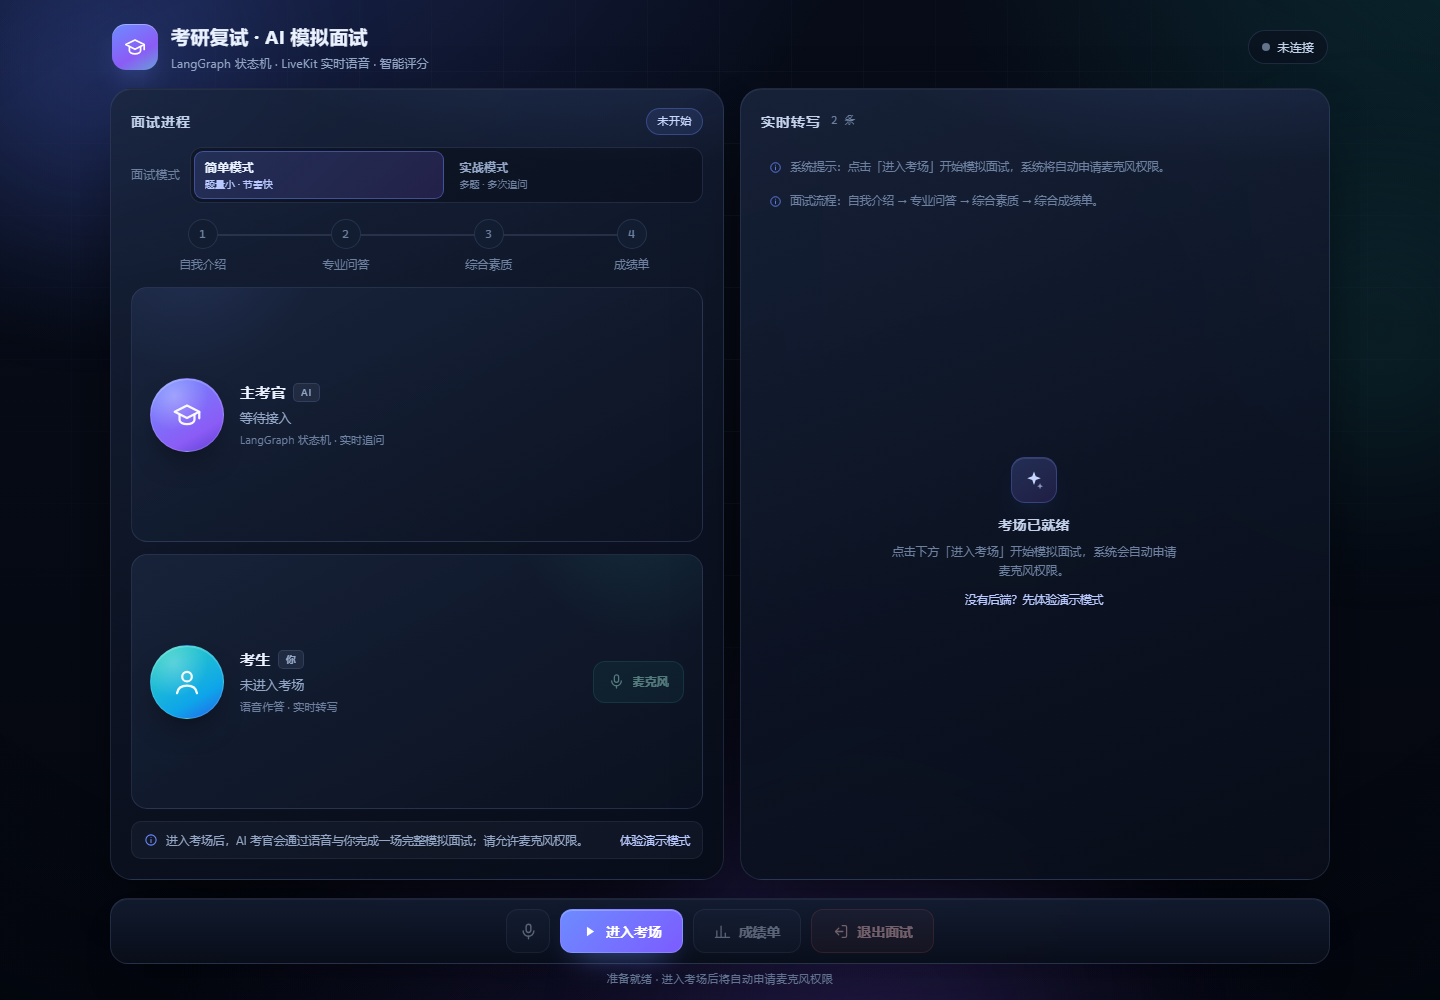
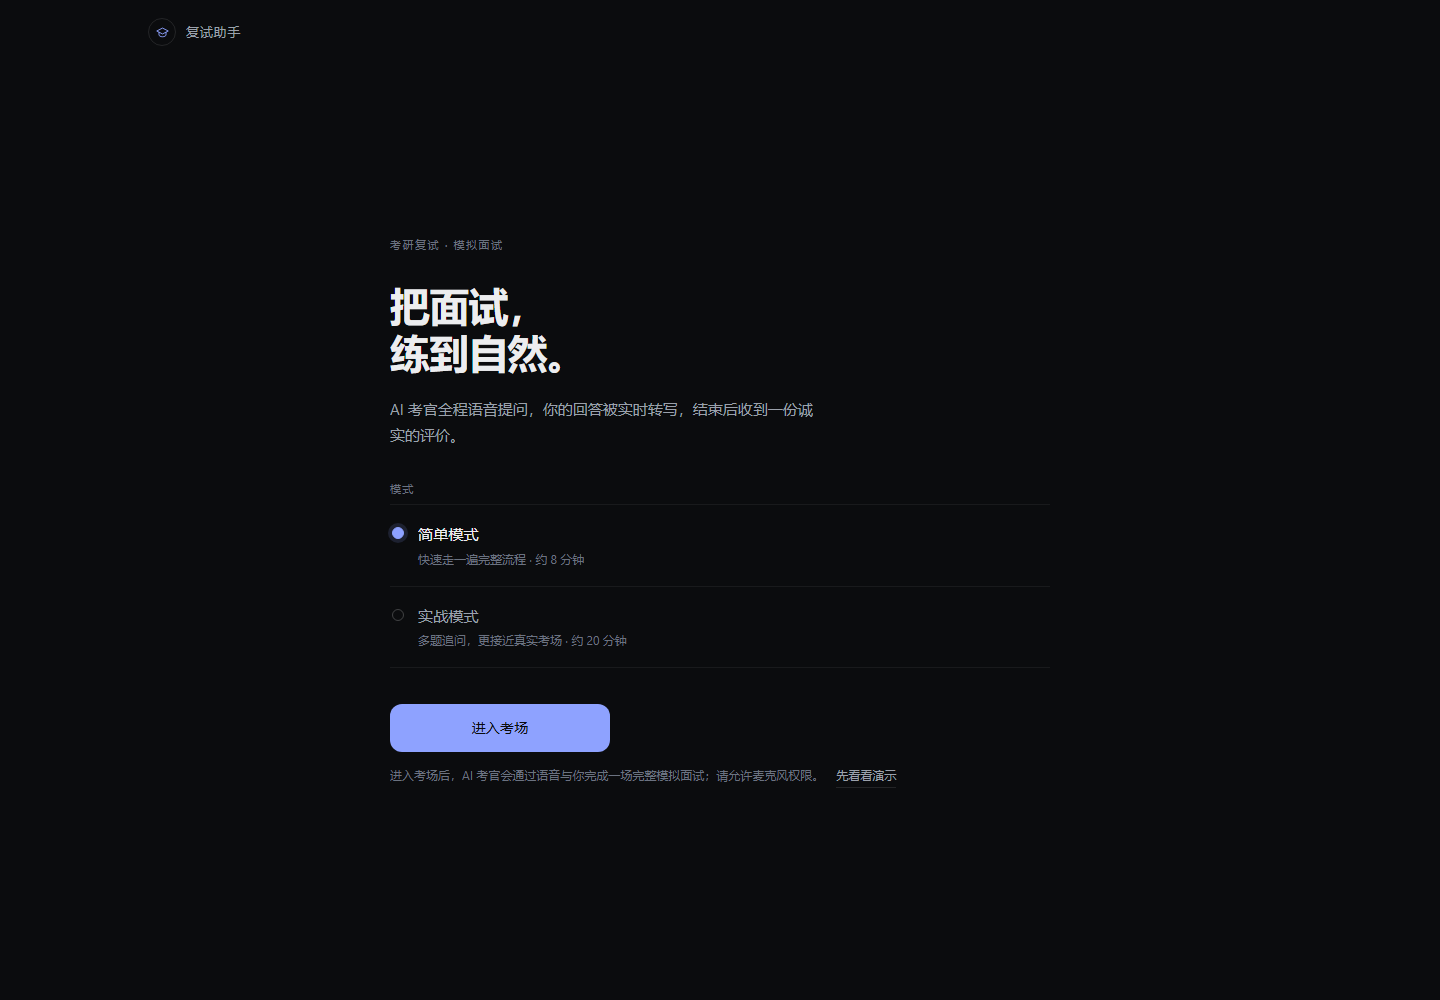
docs: refresh screenshots and notes for the refined interface
Replace the after-screenshots with the redesigned lobby, session, thinking, report, mobile and error states; update the optimization report visuals section.

diff --git a/docs/optimization-report.md b/docs/optimization-report.md
@@ -62,7 +62,7 @@
 
 原 512 行单文件拆为 `index.html` + `styles.css` + `app.js`（原生技术栈，无构建步骤）：
 
-- 视觉：深色沉浸式考场主题、渐变/光晕、阶段进度线、成绩单环形总分 + 三维条形动画；动效只用 `transform/opacity`。
+- 视觉（第二轮按"好看"需求重做）：克制的极简编辑排版——近黑石墨底、单一冷静强调色、发丝分割线、五级字号层级、面板与徽章大幅减少；大厅居中列、面试中"舞台 + 独立对话区"、成绩单大数字 + 细线维度；动效只保留发言呼吸（scale ≤1.02）、状态切换 200ms、成绩单一次性 reveal，并受 `prefers-reduced-motion` 关闭。
 - 安全：所有动态文本 `textContent`（原 `innerHTML` XSS 面消除，实测 XSS 载荷只显示为文本）；不引入第三方 CSS/字体框架。
 - 健壮性：音频 track `attach/detach` 统一清理、`pagehide` 断开、重连状态、自动播放被拦截横幅、内联错误卡片 + 重试、连接质量、麦克风静音、`aria-live`/`focus-visible`/`prefers-reduced-motion`。
 - 性能：LiveKit SDK 按需懒加载（原阻塞 CDN `<script>` 移除），SDK/CDN 不可用不白屏；DOM 引用缓存、滚动节流。
@@ -108,7 +108,7 @@ HTTP 冒烟（新一轮 `server.py`，端口 8080）：
 | `GET /%2e%2e%2fREADME.md` | 403（路径穿越被拒） |
 | `GET /nope.css` | 404 |
 
-界面证据（`docs/screenshots/`）：`after-quick-mode.png`（简单模式进行中）、`after-real-mode.png`（实战模式多题+追问）、`after-ai-thinking.png`（AI 思考中）、`after-report.png`（成绩单）、`after-mobile-390.png`（移动端）、`after-error-state.png`（未启动 LiveKit 时的内联错误+重试）。
+界面证据（`docs/screenshots/`）：`after-live-lobby.png`（大厅/模式选择）、`after-real-mode.png`（实战模式进行中）、`after-ai-thinking.png`（AI 思考中）、`after-report.png`（成绩单）、`after-mobile-390.png` / `after-mobile-report-390.png`（移动端）、`after-error-state.png`（未启动 LiveKit 时的错误态）。
 
 ---
 

diff --git a/README.md b/README.md
@@ -138,7 +138,7 @@ python agent.py connect --room ai-room
 ├── server.py                 # 静态前端服务 + token 签发 + /api/health
 ├── frontend/
 │   ├── index.html            # 面试工作台结构（无内联脚本/样式）
-│   ├── styles.css            # 深色沉浸式主题 + 响应式 + 动效
+│   ├── styles.css            # 克制的极简深色主题 + 响应式 + 动效
 │   └── app.js                # LiveKit 连接、转写、阶段、成绩单、模式选择、演示模式
 ├── tests/
 │   ├── test_graph_nodes.py        # 状态机节点单测
